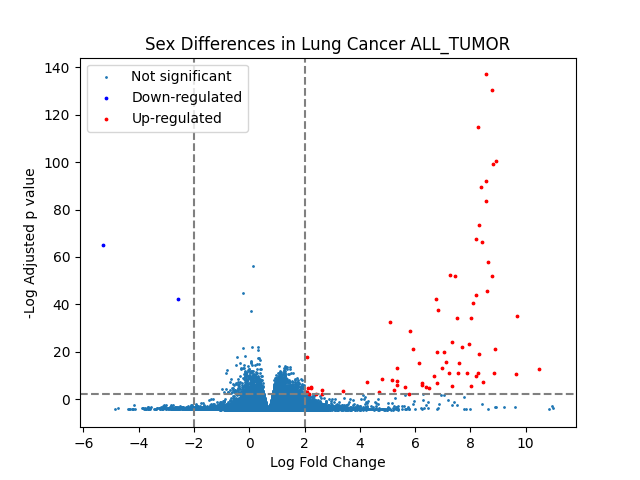
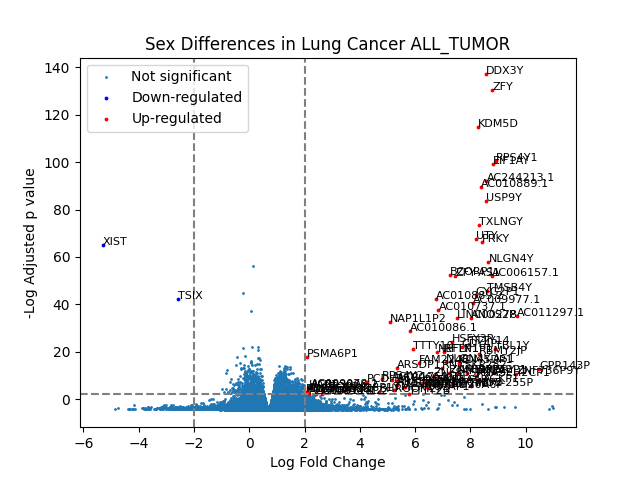
genes labeled in figures

diff --git a/code/annotated_volcano.py b/code/annotated_volcano.py
@@ -13,6 +13,7 @@ import numpy as np
 combinedCSV = sys.argv[1]
 extraTitle = sys.argv[2]
 df = pd.read_csv(combinedCSV)
+df = df.set_index(df.columns[0])
 
 # scatter everytime as nonspecific
 plt.scatter(x=df['Log Fold Change'],y=df['Adjusted P Value'].apply(lambda x:-np.log10(x)),s=1,label="Not significant")
@@ -24,6 +25,11 @@ up = df[(df['Log Fold Change']>=2)&(df['Adjusted P Value']<=0.01)]
 # plot down- and up- regulated genes
 plt.scatter(x=down['Log Fold Change'],y=down['Adjusted P Value'].apply(lambda x:-np.log10(x)),s=3,label="Down-regulated",color="blue")
 plt.scatter(x=up['Log Fold Change'],y=up['Adjusted P Value'].apply(lambda x:-np.log10(x)),s=3,label="Up-regulated",color="red")
+
+for i,r in up.iterrows():
+	plt.text(x=r['Log Fold Change'],y=-np.log10(r['Adjusted P Value']),s=i,fontsize=8)
+for i,r in down.iterrows():
+	plt.text(x=r['Log Fold Change'],y=-np.log10(r['Adjusted P Value']),s=i,fontsize=8)
 
 # label plot
 plt.xlabel("Log Fold Change")
